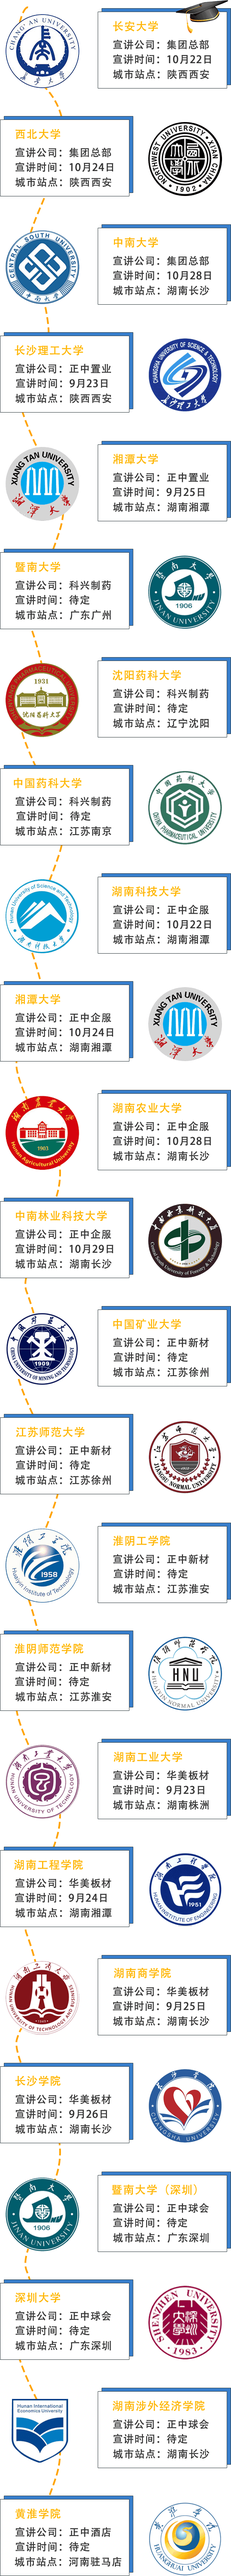
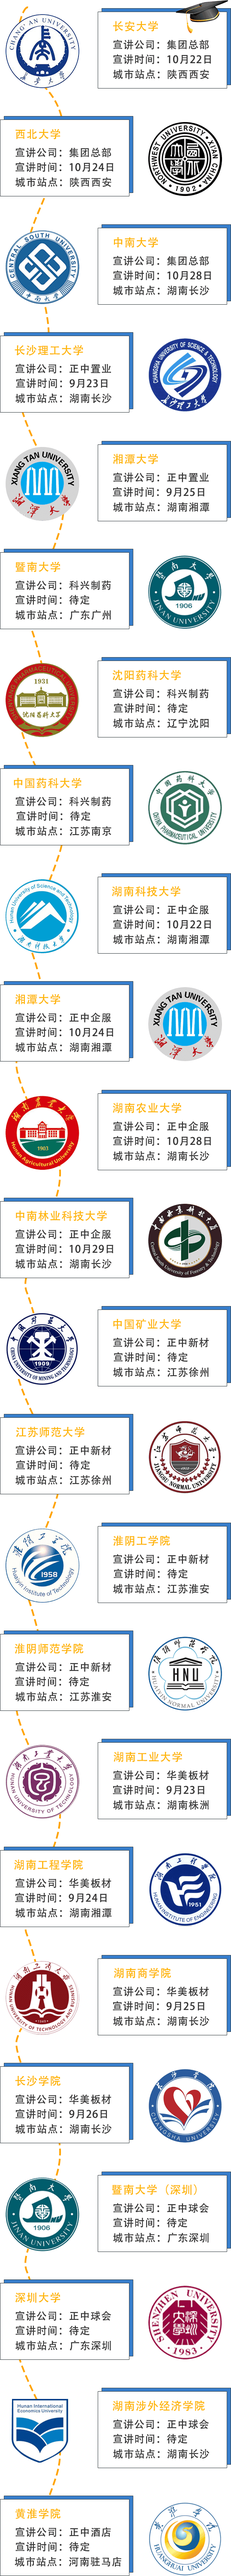
修改zz行程文字

Changed region(s): [[0.7421, 0.9671, 0.7718, 0.9983]]

diff --git a/demo/zz/index.html b/demo/zz/index.html
@@ -606,7 +606,7 @@
                     <div class="code ">
                         <div>
                             <div><img src="./images/ydcode.jpg " alt=" " srcset=" "></div>
-                            <p>移动端二维码</p>
+                            <p>网申二维码</p>
                         </div>
                         <div>
                             <div><img src="./images/wxcode.jpg " alt=" " srcset=" "></div>
